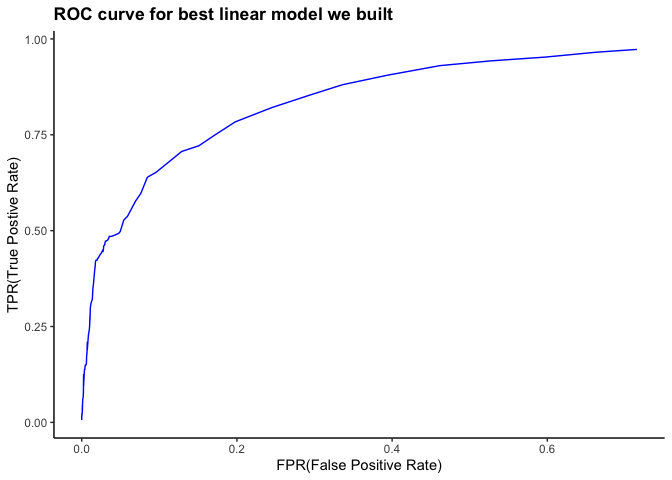
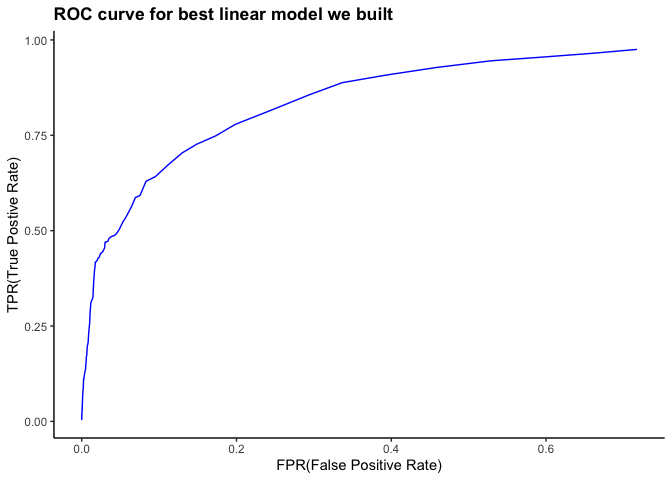
Checkint md file

diff --git a/Exercise 2/ECO-395M-exercise-2.md b/Exercise 2/ECO-395M-exercise-2.md
@@ -3,11 +3,15 @@
 \*\* Between linear model and K-nearest-neighbor regression model, which
 one is better at achieving lower out-of-sample mean-squared error? \*\*
 
-    ## [1] 70585.57
+First of all, we built the best linear model for price that we can. To
+evaluate the model performance we making, we compared the rmse of the
+model with the medium model.
 
-    ## [1] 69276.05
+    ## [1] 64487.87
 
-    ## [1] 69964.27
+6.5119901^{4}
+
+6.5357641^{4}
 
     ##  [1] "price"                  "lotSize"                "age"                   
     ##  [4] "livingArea"             "bedrooms"               "fireplaces"            
@@ -46,11 +50,11 @@ history.
 <tbody>
 <tr class="odd">
 <td style="text-align: left;">(Intercept)</td>
-<td style="text-align: right;">-1.12</td>
+<td style="text-align: right;">-0.92</td>
 </tr>
 <tr class="even">
 <td style="text-align: left;">duration</td>
-<td style="text-align: right;">0.02</td>
+<td style="text-align: right;">0.03</td>
 </tr>
 <tr class="odd">
 <td style="text-align: left;">amount</td>
@@ -62,35 +66,35 @@ history.
 </tr>
 <tr class="odd">
 <td style="text-align: left;">age</td>
-<td style="text-align: right;">-0.01</td>
+<td style="text-align: right;">-0.03</td>
 </tr>
 <tr class="even">
 <td style="text-align: left;">historypoor</td>
-<td style="text-align: right;">-0.97</td>
+<td style="text-align: right;">-0.92</td>
 </tr>
 <tr class="odd">
 <td style="text-align: left;">historyterrible</td>
-<td style="text-align: right;">-1.76</td>
+<td style="text-align: right;">-1.74</td>
 </tr>
 <tr class="even">
 <td style="text-align: left;">purposeedu</td>
-<td style="text-align: right;">0.69</td>
+<td style="text-align: right;">0.68</td>
 </tr>
 <tr class="odd">
 <td style="text-align: left;">purposegoods/repair</td>
-<td style="text-align: right;">0.08</td>
+<td style="text-align: right;">0.19</td>
 </tr>
 <tr class="even">
 <td style="text-align: left;">purposenewcar</td>
-<td style="text-align: right;">0.85</td>
+<td style="text-align: right;">1.10</td>
 </tr>
 <tr class="odd">
 <td style="text-align: left;">purposeusedcar</td>
-<td style="text-align: right;">-0.70</td>
+<td style="text-align: right;">-0.65</td>
 </tr>
 <tr class="even">
 <td style="text-align: left;">foreigngerman</td>
-<td style="text-align: right;">-1.28</td>
+<td style="text-align: right;">-1.75</td>
 </tr>
 </tbody>
 </table>
@@ -177,11 +181,11 @@ out-of-sample correct classifications.
 <tbody>
 <tr class="odd">
 <td style="text-align: left;">0</td>
-<td style="text-align: right;">8304</td>
+<td style="text-align: right;">8302</td>
 </tr>
 <tr class="even">
 <td style="text-align: left;">1</td>
-<td style="text-align: right;">696</td>
+<td style="text-align: right;">698</td>
 </tr>
 </tbody>
 </table>
@@ -197,7 +201,7 @@ out-of-sample correct classifications.
 </thead>
 <tbody>
 <tr class="odd">
-<td style="text-align: right;">92.27</td>
+<td style="text-align: right;">92.24</td>
 </tr>
 </tbody>
 </table>
@@ -229,13 +233,13 @@ table is Percentage of out-of-sample correct classifications
 <tbody>
 <tr class="odd">
 <td style="text-align: left;">0</td>
-<td style="text-align: right;">8195</td>
-<td style="text-align: right;">109</td>
+<td style="text-align: right;">8183</td>
+<td style="text-align: right;">119</td>
 </tr>
 <tr class="even">
 <td style="text-align: left;">1</td>
-<td style="text-align: right;">436</td>
-<td style="text-align: right;">260</td>
+<td style="text-align: right;">447</td>
+<td style="text-align: right;">251</td>
 </tr>
 </tbody>
 </table>
@@ -251,7 +255,7 @@ table is Percentage of out-of-sample correct classifications
 </thead>
 <tbody>
 <tr class="odd">
-<td style="text-align: right;">93.94</td>
+<td style="text-align: right;">93.71</td>
 </tr>
 </tbody>
 </table>
@@ -283,13 +287,13 @@ of out-of-sample correct classifications.
 <tbody>
 <tr class="odd">
 <td style="text-align: left;">0</td>
-<td style="text-align: right;">8202</td>
-<td style="text-align: right;">102</td>
+<td style="text-align: right;">8193</td>
+<td style="text-align: right;">109</td>
 </tr>
 <tr class="even">
 <td style="text-align: left;">1</td>
-<td style="text-align: right;">436</td>
-<td style="text-align: right;">260</td>
+<td style="text-align: right;">453</td>
+<td style="text-align: right;">245</td>
 </tr>
 </tbody>
 </table>
@@ -305,7 +309,7 @@ of out-of-sample correct classifications.
 </thead>
 <tbody>
 <tr class="odd">
-<td style="text-align: right;">94.02</td>
+<td style="text-align: right;">93.76</td>
 </tr>
 </tbody>
 </table>
@@ -331,34 +335,35 @@ Validating the model by testing with entirely fresh data,
 </thead>
 <tbody>
 <tr class="odd">
-<td style="text-align: right;">0.7154666</td>
-<td style="text-align: right;">0.9726368</td>
+<td style="text-align: right;">0.7174244</td>
+<td style="text-align: right;">0.9751244</td>
 </tr>
 <tr class="even">
-<td style="text-align: right;">0.6619534</td>
+<td style="text-align: right;">0.6613008</td>
 <td style="text-align: right;">0.9651741</td>
 </tr>
 <tr class="odd">
-<td style="text-align: right;">0.5979987</td>
-<td style="text-align: right;">0.9527363</td>
+<td style="text-align: right;">0.5966935</td>
+<td style="text-align: right;">0.9552239</td>
 </tr>
 <tr class="even">
-<td style="text-align: right;">0.5273004</td>
-<td style="text-align: right;">0.9427861</td>
+<td style="text-align: right;">0.5288231</td>
+<td style="text-align: right;">0.9452736</td>
 </tr>
 <tr class="odd">
-<td style="text-align: right;">0.4616054</td>
-<td style="text-align: right;">0.9303483</td>
+<td style="text-align: right;">0.4585599</td>
+<td style="text-align: right;">0.9278607</td>
 </tr>
 <tr class="even">
-<td style="text-align: right;">0.3941701</td>
-<td style="text-align: right;">0.9054726</td>
+<td style="text-align: right;">0.3937350</td>
+<td style="text-align: right;">0.9079602</td>
 </tr>
 </tbody>
 </table>
 
 To make ROC curve plot, we made a dataframe for False Positive Rate
-value and True Postive Rate value for each threshold t.
+value and True Postive Rate value for each threshold t (shows only parts
+of the rows with head(df))
 
 ![](ECO-395M-exercise-2_files/figure-markdown_strict/problem%203.2.1.2-1.png)
 
@@ -394,102 +399,102 @@ children
 <tbody>
 <tr class="odd">
 <td style="text-align: right;">1</td>
-<td style="text-align: right;">22.76201</td>
-<td style="text-align: right;">24</td>
+<td style="text-align: right;">19.94009</td>
+<td style="text-align: right;">20</td>
 </tr>
 <tr class="even">
 <td style="text-align: right;">2</td>
-<td style="text-align: right;">19.03819</td>
-<td style="text-align: right;">12</td>
+<td style="text-align: right;">19.45649</td>
+<td style="text-align: right;">23</td>
 </tr>
 <tr class="odd">
 <td style="text-align: right;">3</td>
-<td style="text-align: right;">21.88122</td>
-<td style="text-align: right;">21</td>
+<td style="text-align: right;">21.27575</td>
+<td style="text-align: right;">16</td>
 </tr>
 <tr class="even">
 <td style="text-align: right;">4</td>
-<td style="text-align: right;">17.59707</td>
-<td style="text-align: right;">22</td>
+<td style="text-align: right;">16.41910</td>
+<td style="text-align: right;">20</td>
 </tr>
 <tr class="odd">
 <td style="text-align: right;">5</td>
-<td style="text-align: right;">19.47918</td>
-<td style="text-align: right;">23</td>
+<td style="text-align: right;">19.03125</td>
+<td style="text-align: right;">19</td>
 </tr>
 <tr class="even">
 <td style="text-align: right;">6</td>
-<td style="text-align: right;">18.05993</td>
-<td style="text-align: right;">16</td>
+<td style="text-align: right;">19.71673</td>
+<td style="text-align: right;">21</td>
 </tr>
 <tr class="odd">
 <td style="text-align: right;">7</td>
-<td style="text-align: right;">17.83486</td>
-<td style="text-align: right;">13</td>
+<td style="text-align: right;">23.04765</td>
+<td style="text-align: right;">17</td>
 </tr>
 <tr class="even">
 <td style="text-align: right;">8</td>
-<td style="text-align: right;">16.82947</td>
-<td style="text-align: right;">14</td>
+<td style="text-align: right;">22.00697</td>
+<td style="text-align: right;">22</td>
 </tr>
 <tr class="odd">
 <td style="text-align: right;">9</td>
-<td style="text-align: right;">20.91031</td>
-<td style="text-align: right;">26</td>
+<td style="text-align: right;">20.09535</td>
+<td style="text-align: right;">24</td>
 </tr>
 <tr class="even">
 <td style="text-align: right;">10</td>
-<td style="text-align: right;">18.25311</td>
-<td style="text-align: right;">20</td>
+<td style="text-align: right;">19.36654</td>
+<td style="text-align: right;">16</td>
 </tr>
 <tr class="odd">
 <td style="text-align: right;">11</td>
-<td style="text-align: right;">22.30595</td>
-<td style="text-align: right;">25</td>
+<td style="text-align: right;">19.53029</td>
+<td style="text-align: right;">18</td>
 </tr>
 <tr class="even">
 <td style="text-align: right;">12</td>
-<td style="text-align: right;">17.66887</td>
-<td style="text-align: right;">19</td>
+<td style="text-align: right;">16.83846</td>
+<td style="text-align: right;">25</td>
 </tr>
 <tr class="odd">
 <td style="text-align: right;">13</td>
-<td style="text-align: right;">19.98549</td>
-<td style="text-align: right;">23</td>
+<td style="text-align: right;">21.75694</td>
+<td style="text-align: right;">14</td>
 </tr>
 <tr class="even">
 <td style="text-align: right;">14</td>
-<td style="text-align: right;">22.68044</td>
-<td style="text-align: right;">19</td>
+<td style="text-align: right;">21.15161</td>
+<td style="text-align: right;">22</td>
 </tr>
 <tr class="odd">
 <td style="text-align: right;">15</td>
-<td style="text-align: right;">21.16570</td>
+<td style="text-align: right;">19.85787</td>
+<td style="text-align: right;">18</td>
+</tr>
+<tr class="even">
+<td style="text-align: right;">16</td>
+<td style="text-align: right;">18.54759</td>
+<td style="text-align: right;">25</td>
+</tr>
+<tr class="odd">
+<td style="text-align: right;">17</td>
+<td style="text-align: right;">23.94067</td>
 <td style="text-align: right;">25</td>
 </tr>
 <tr class="even">
-<td style="text-align: right;">16</td>
-<td style="text-align: right;">23.18075</td>
-<td style="text-align: right;">26</td>
-</tr>
-<tr class="odd">
-<td style="text-align: right;">17</td>
-<td style="text-align: right;">22.59326</td>
-<td style="text-align: right;">20</td>
-</tr>
-<tr class="even">
 <td style="text-align: right;">18</td>
-<td style="text-align: right;">20.30592</td>
-<td style="text-align: right;">17</td>
+<td style="text-align: right;">21.10731</td>
+<td style="text-align: right;">21</td>
 </tr>
 <tr class="odd">
 <td style="text-align: right;">19</td>
-<td style="text-align: right;">18.89386</td>
-<td style="text-align: right;">16</td>
+<td style="text-align: right;">17.40278</td>
+<td style="text-align: right;">15</td>
 </tr>
 <tr class="even">
 <td style="text-align: right;">20</td>
-<td style="text-align: right;">20.57441</td>
+<td style="text-align: right;">21.51054</td>
 <td style="text-align: right;">21</td>
 </tr>
 </tbody>
@@ -498,3 +503,4 @@ children
 ![](ECO-395M-exercise-2_files/figure-markdown_strict/problem%203.2.4-1.png)
 **Figure 1:** Generated 20 folds having information of expected number
 of bookings with children and actual number of bookings with children.
+(Red=expected, Green=actual)
